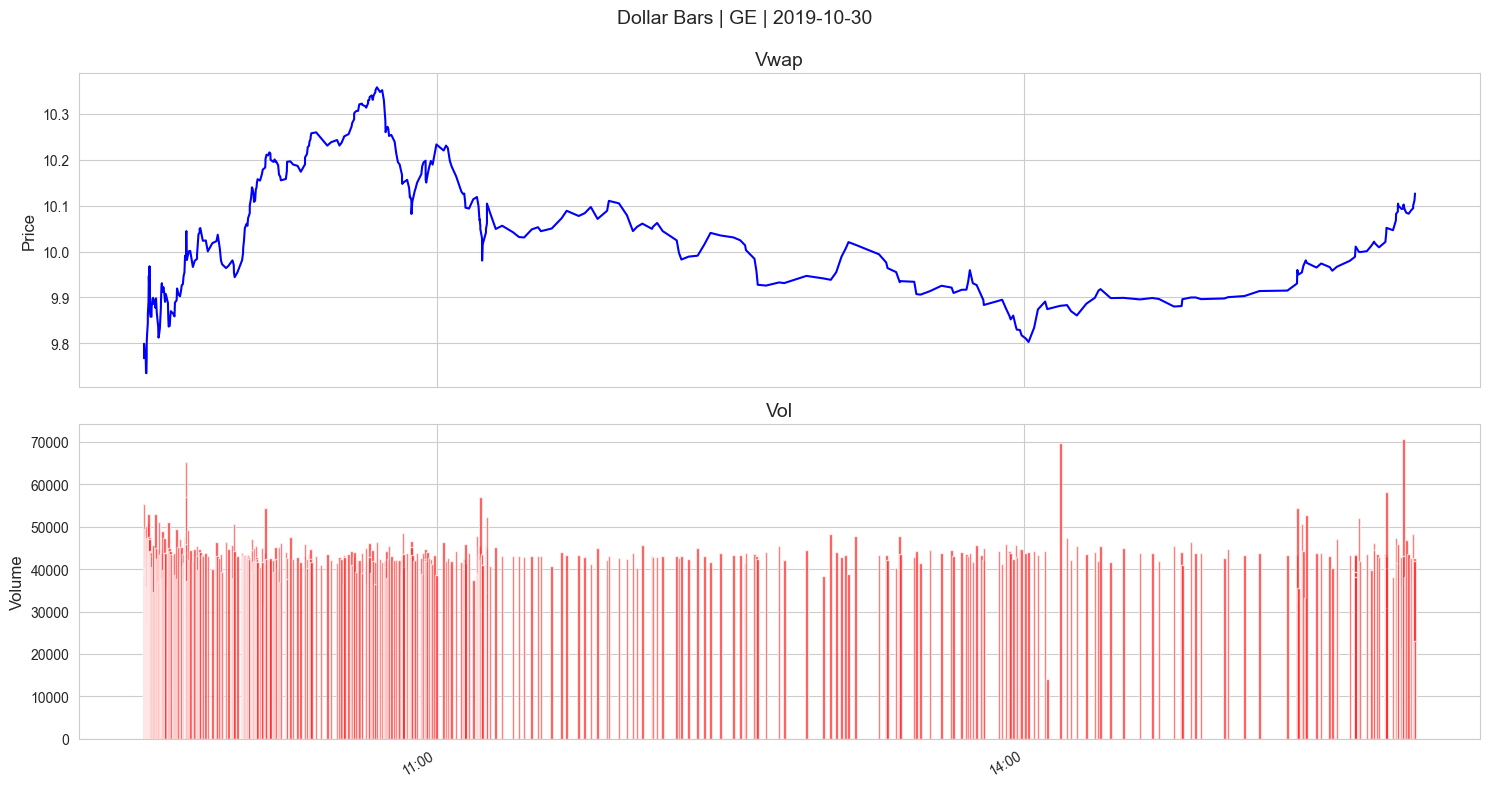
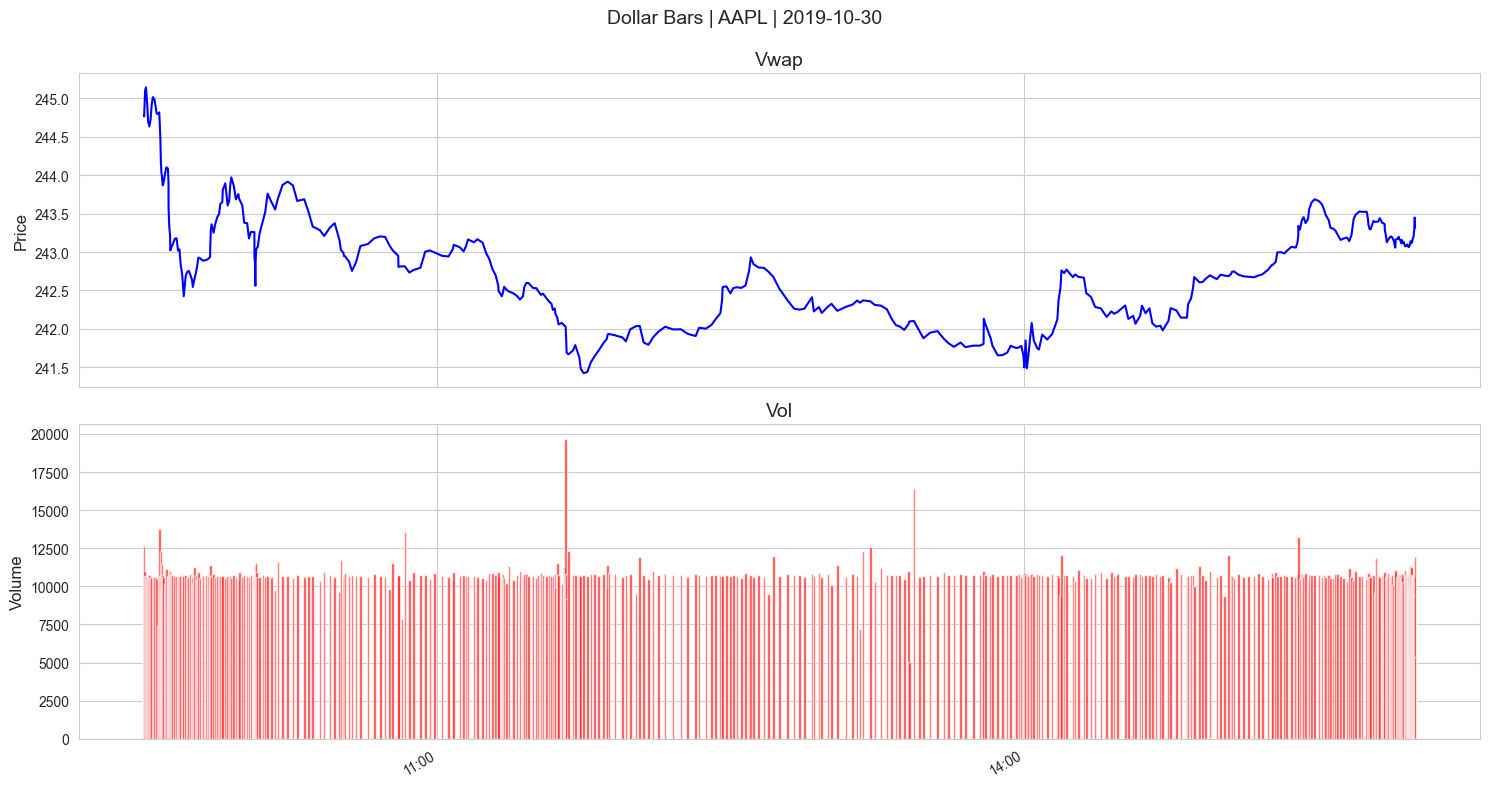
added 02_01_03

diff --git a/02_market_and_fundamental_data/01_NASDAQ_TotalView-ITCH_Order_Book/03_normalize_tick_data.html b/02_market_and_fundamental_data/01_NASDAQ_TotalView-ITCH_Order_Book/03_normalize_tick_data.html
@@ -1,0 +1,61 @@
+<!DOCTYPE html>
+<html lang="en">
+  <head>
+    <meta charset="utf-8">
+    <title>Bokeh Plot</title>
+    <style>
+      html, body {
+        box-sizing: border-box;
+        display: flow-root;
+        height: 100%;
+        margin: 0;
+        padding: 0;
+      }
+    </style>
+    <script type="text/javascript" src="https://cdn.bokeh.org/bokeh/release/bokeh-3.6.2.min.js"></script>
+    <script type="text/javascript">
+        Bokeh.set_log_level("info");
+    </script>
+  </head>
+  <body>
+    <div id="a5187ec1-f4b6-4fd1-8e81-300dcab557f5" data-root-id="p1001" style="display: contents;"></div>
+  
+    <script type="application/json" id="fb586227-6118-4843-950c-82d38ec963c2">
[1 lines of base64/hex data omitted]
+    </script>
+    <script type="text/javascript">
+      (function() {
+        const fn = function() {
+          Bokeh.safely(function() {
+            (function(root) {
+              function embed_document(root) {
+              const docs_json = document.getElementById('fb586227-6118-4843-950c-82d38ec963c2').textContent;
+              const render_items = [{"docid":"0e0f6491-35ce-43e1-bd3f-d7607e39bd8a","roots":{"p1001":"a5187ec1-f4b6-4fd1-8e81-300dcab557f5"},"root_ids":["p1001"]}];
+              root.Bokeh.embed.embed_items(docs_json, render_items);
+              }
+              if (root.Bokeh !== undefined) {
+                embed_document(root);
+              } else {
+                let attempts = 0;
+                const timer = setInterval(function(root) {
+                  if (root.Bokeh !== undefined) {
+                    clearInterval(timer);
+                    embed_document(root);
+                  } else {
+                    attempts++;
+                    if (attempts > 100) {
+                      clearInterval(timer);
+                      console.log("Bokeh: ERROR: Unable to run BokehJS code because BokehJS library is missing");
+                    }
+                  }
+                }, 10, root)
+              }
+            })(window);
+          });
+        };
+        if (document.readyState != "loading") fn();
+        else document.addEventListener("DOMContentLoaded", fn);
+      })();
+    </script>
+  </body>
+</html>

diff --git a/02_market_and_fundamental_data/01_NASDAQ_TotalView-ITCH_Order_Book/03_normalize_tick_data.py b/02_market_and_fundamental_data/01_NASDAQ_TotalView-ITCH_Order_Book/03_normalize_tick_data.py
@@ -19,7 +19,7 @@ mpl.rcParams['figure.dpi'] = 100
 
 # Set your date & stock symbol here
 date = '10302019'
-stock = 'GE'
+stock = 'AAPL'
 
 # Adjust the paths below as needed
 data_path = Path(r'C:\Users\pinha\OneDrive\Documents\Trading\data')
